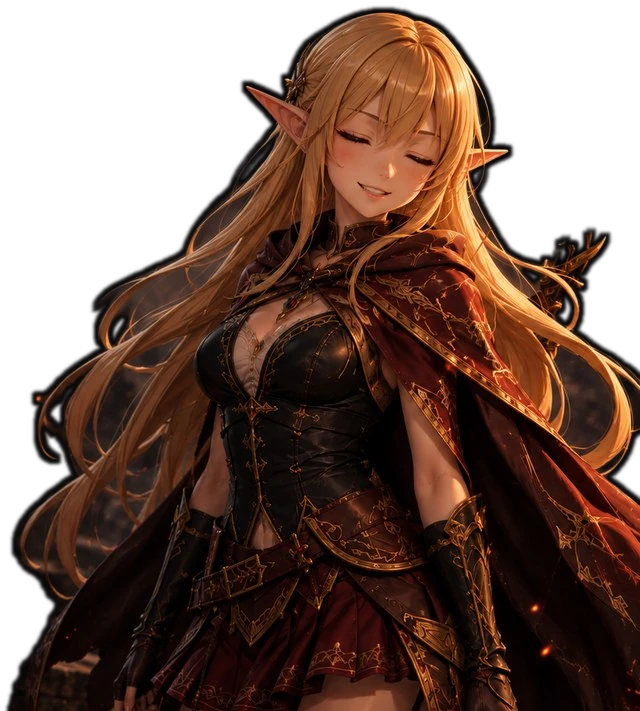
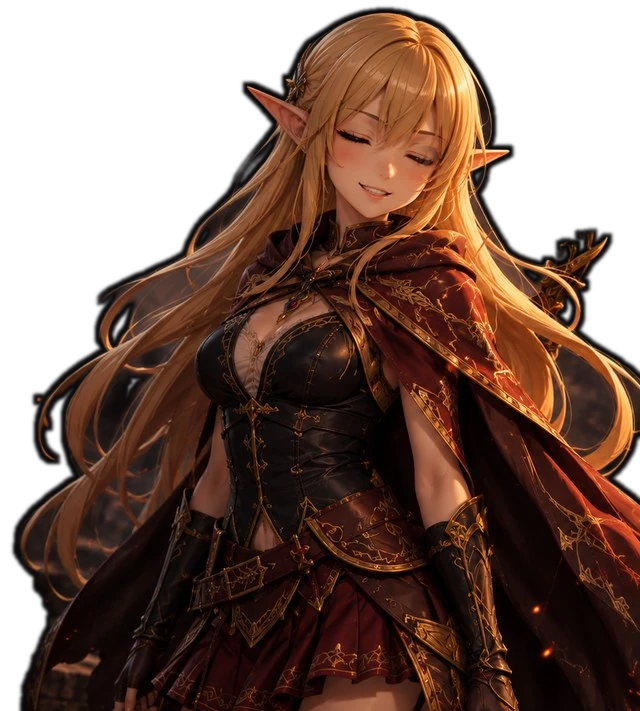
Fix blink flicker: freeze everything except the eyes themselves
The two source frames weren't pixel-identical outside the eyes -
diffing them showed a faint shift across every edge (hair, cape,
outfit trim), which read as a global lighting/color flicker on every
blink when crossfading the two full images.

Fix: eyes-open is now the single persistent frame. The 'closed' frame
is built by pasting only a small hand-verified eye-region crop from
the closed source onto a copy of the open frame, feather-blended and
color-matched to its surroundings. Diffed the result against the base
- confirmed exactly 0 difference outside the patch box.

Documented the technique in CLAUDE.md for future image-avatar classes.
Bumped sw.js to ledger-v14.

diff --git a/sw.js b/sw.js
@@ -1,4 +1,4 @@
-const CACHE = 'ledger-v13';
+const CACHE = 'ledger-v14';
 const ASSETS = ['./', './index.html', './manifest.json', './icon-192.png', './icon-512.png', './ranger-open.webp', './ranger-closed.webp'];
 
 self.addEventListener('install', function(e){

diff --git a/CLAUDE.md b/CLAUDE.md
@@ -146,6 +146,23 @@ it again if you add another standalone setting.
     The background-removal + outline processing above has to be applied
     identically to both frames or the outline will visibly shift/pulse
     during the blink.
+  - **Even a good img2img pair isn't pixel-identical outside the eyes**
+    — diffing Ranger's two source frames showed a faint but pervasive
+    shift across *every* edge (hair strands, cape folds, outfit trim),
+    not just the eyes. Crossfading the two full images made that read
+    as a global lighting/color flicker on every blink, not just an eye
+    movement. The fix isn't better color-matching of the whole image —
+    it's to stop crossfading two full frames at all. Instead: treat the
+    eyes-open frame as the single persistent base (`ranger-open.webp`),
+    and build the "closed" frame by pasting *only* a small hand-verified
+    eye-region crop from the closed source onto a copy of the open
+    frame, blended with a feathered-edge mask (~14px Gaussian falloff)
+    and a per-channel mean/std color match of that patch against the
+    base frame's own pixels in that region. Diff the result against the
+    base afterward and confirm it's *exactly* 0 outside the patch box
+    before shipping — that's the actual test that this worked, not just
+    eyeballing it. This is the general technique for any future
+    image-avatar class's blink pair, not a Ranger-specific fix.
   - Image-avatar classes **deliberately have no color-scheme variants**
     (recoloring painted art isn't a hex-swap the way the SVG rig is) —
     `getAvatarChoice()`/`settings.avatarScheme` still exists for SVG
